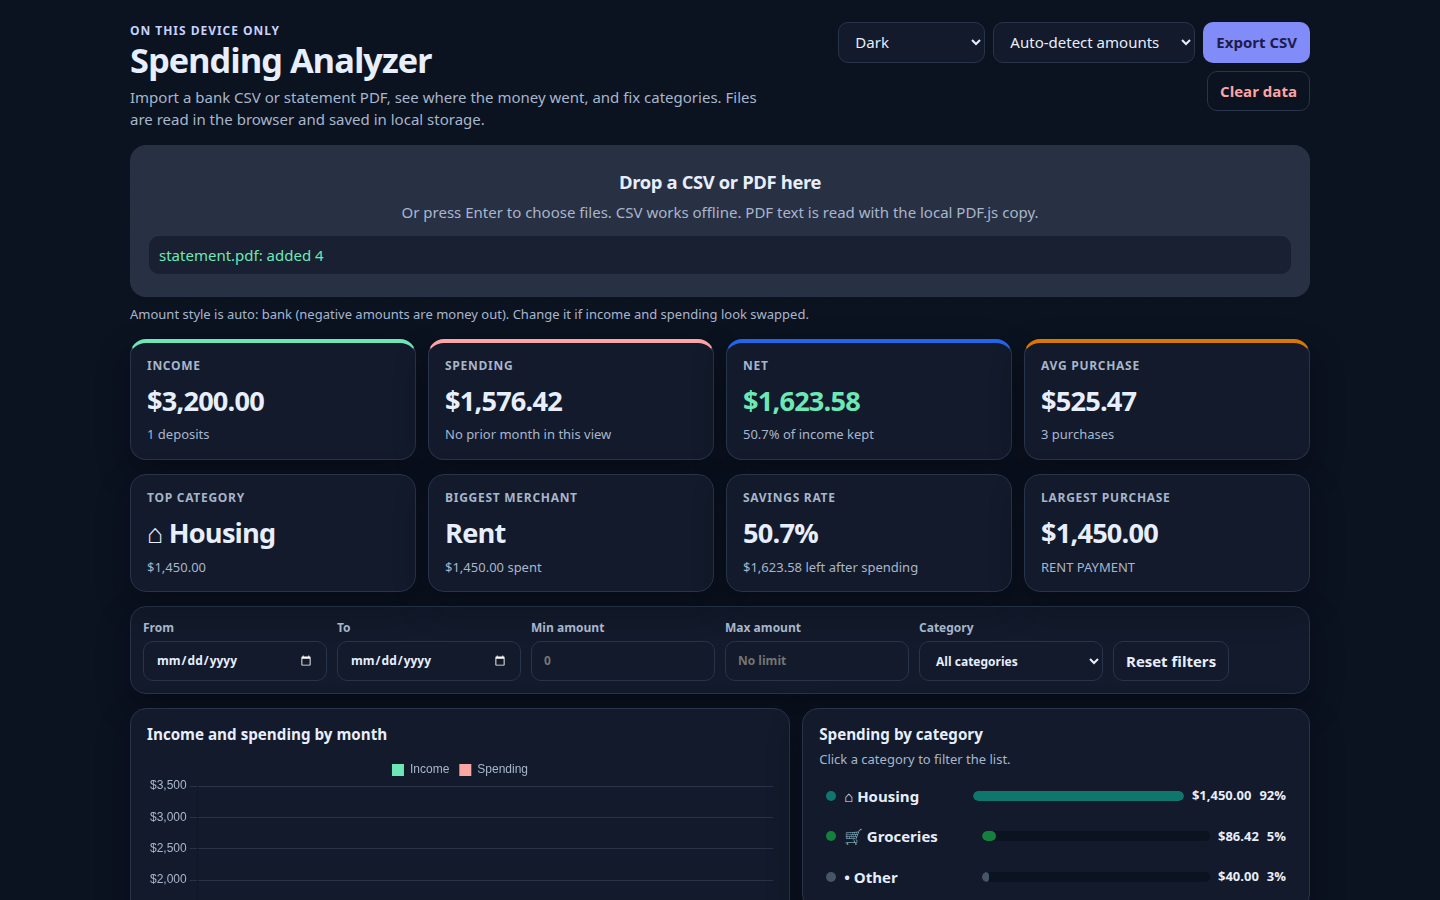
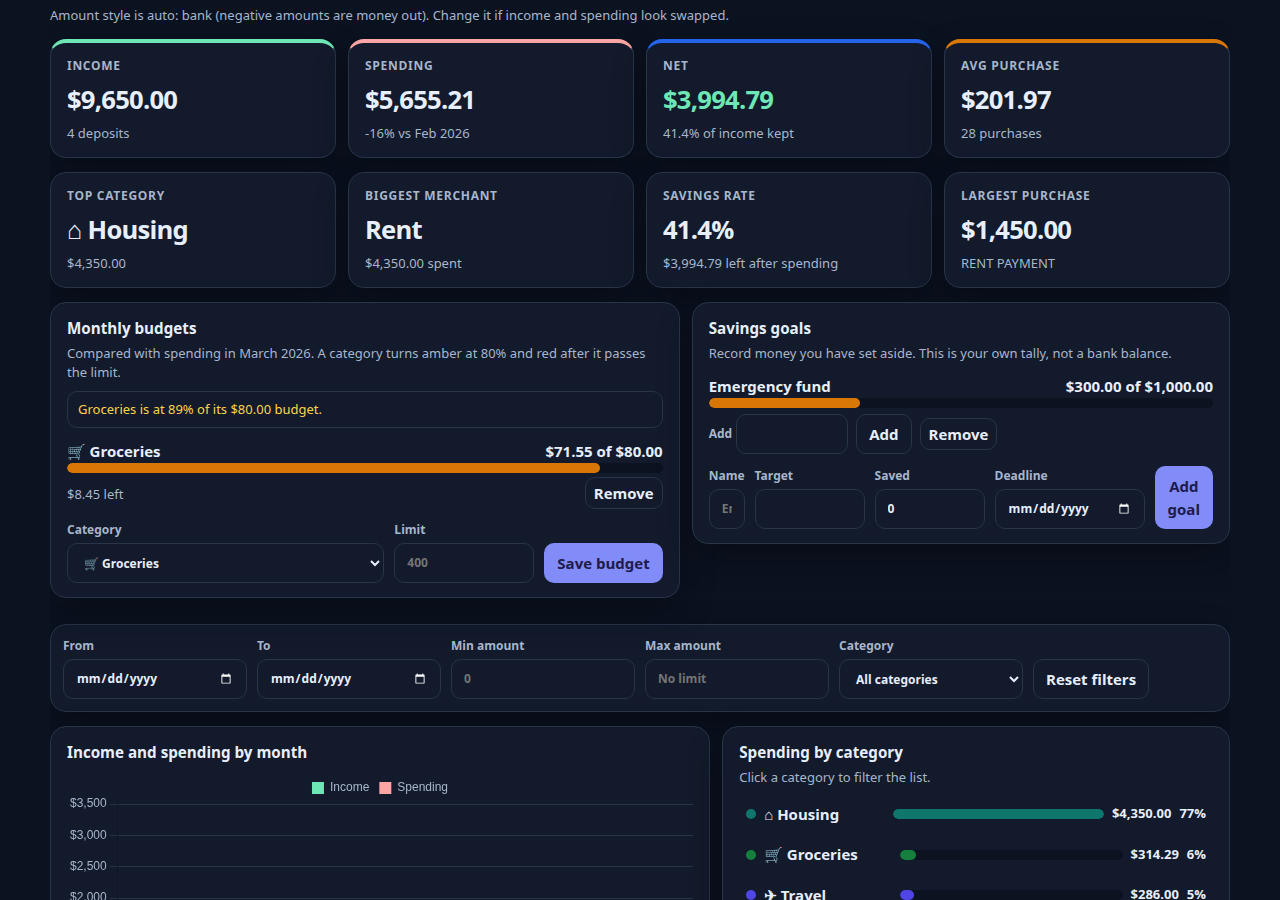
Clear the search box on backup restore and show the new plan in the README.
Restore and clear were leaving an in-memory search active, so a restored file could open already filtered. The README screenshots now include category budgets and a savings goal.

Changed region(s): [[0.0312, 0.0, 0.9688, 1.0], [0.6875, 0.9956, 0.7188, 1.0]]

diff --git a/app.js b/app.js
@@ -738,6 +738,9 @@
           const count = Array.isArray(data.t) ? data.t.length : 0;
           if (!confirm('Replace what is saved in this browser with this backup (' + count + ' transactions)?')) return;
           applyPayload(data);
+          S.q = '';
+          S.cat = '';
+          $('#q').value = '';
           applyTheme(S.theme);
           syncControls();
           save();
@@ -762,7 +765,10 @@
       S.rules = {};
       S.budgets = {};
       S.goals = [];
+      S.q = '';
+      S.cat = '';
       S.selectedMonth = '';
+      $('#q').value = '';
       planSig = '';
       undo = null;
       save();

diff --git a/README.md b/README.md
@@ -21,7 +21,9 @@ Licensed under the [MIT License](LICENSE). Ideas for what comes next are in [ROA
 
 ## Screenshots
 
-![Dashboard with sample income, spending, and category bars](docs/screenshots/dashboard.png)
+![Dashboard with sample income, spending, budgets, and a savings goal](docs/screenshots/dashboard.png)
+
+![Monthly budgets and a savings goal](docs/screenshots/budgets.png)
 
 ![Dark theme](docs/screenshots/dark.png)
 
